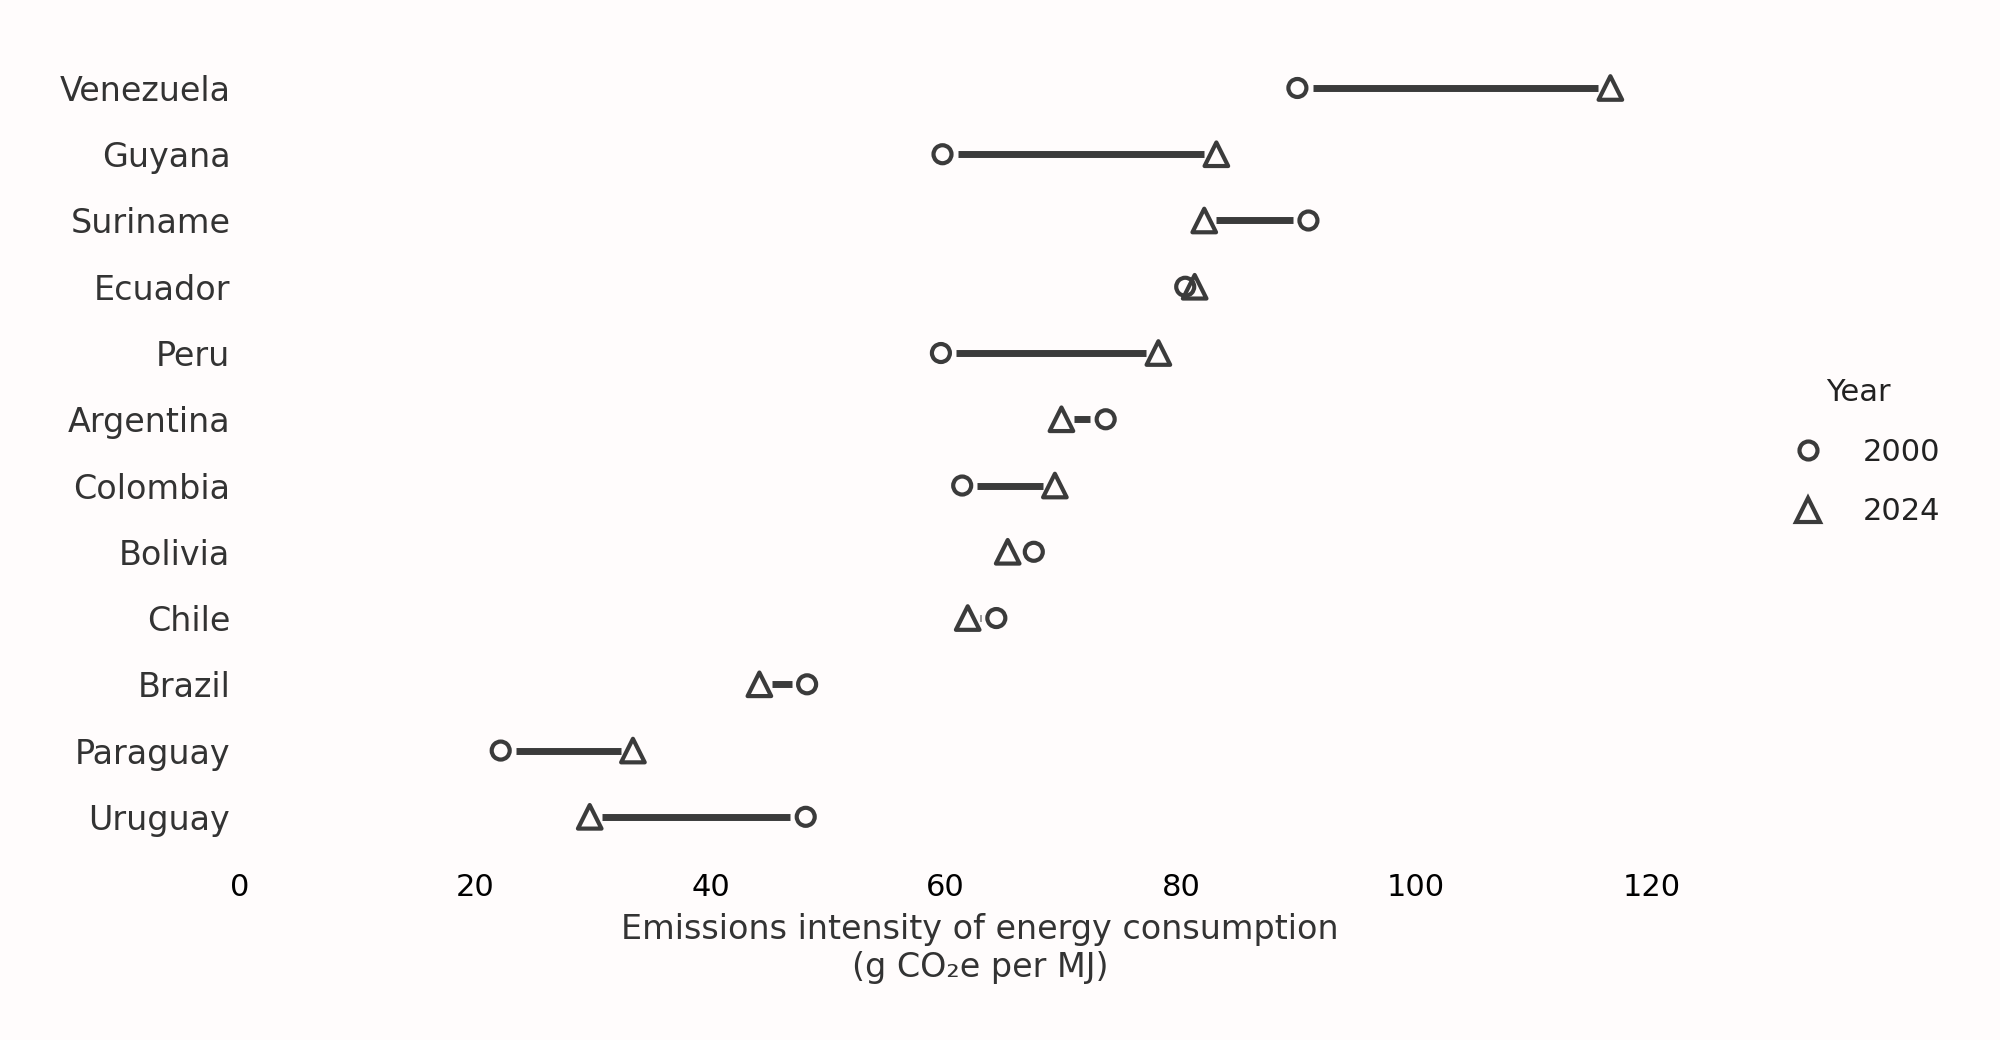
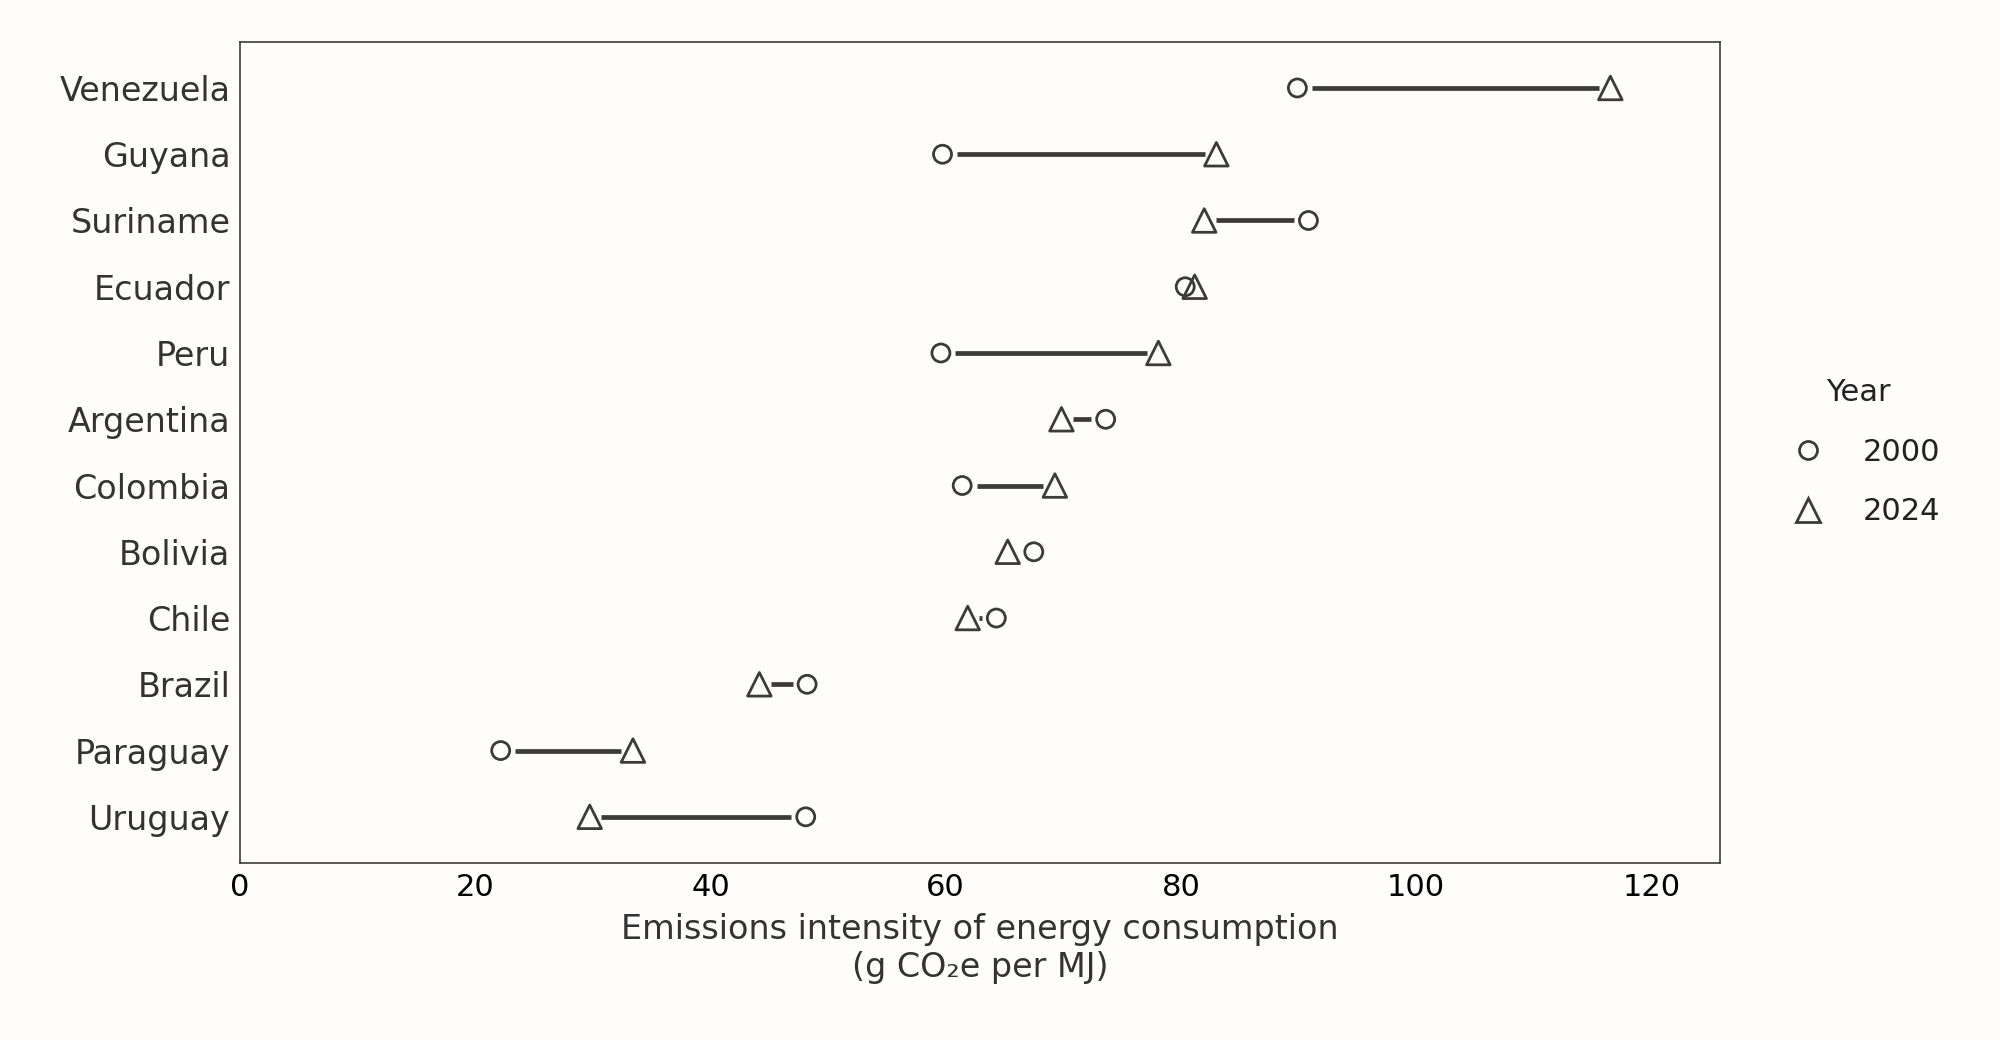
style(fig): add thin frame and thinner bar/marker outlines to CO2e intensity figure
Thin (0.6 pt) frame around the plotting area; marker outlines 1.5 -> 1.0 pt
and magnitude bar 2.5 -> 1.7 pt so the hierarchy is frame < markers < bar.

diff --git a/notebooks/09_fig_co2_intensity.py b/notebooks/09_fig_co2_intensity.py
@@ -42,7 +42,8 @@ FS_YTICK, FS_XTICK, FS_LABEL, FS_LEGEND = 12, 11, 12, 11
 # still shows inside it when both years are almost equal)
 M0, M1 = "o", "^"
 S0, S1 = 42, 72           # scatter areas (pt^2)
-LW_MARK = 1.5
+LW_MARK = 1.0            # marker outline (frame is 0.6)
+LW_BAR = 1.7             # magnitude bar
 GAP_PT = 1.5               # gap between bar end and marker outline
 
 
@@ -119,7 +120,7 @@ def make_figure(tbl, outfile):
         if abs(x1 - x0) * pt_per_unit <= r0 + r1:
             continue                                   # markers touch: no bar
         ax.plot([x0 + sign * r0 / pt_per_unit, x1 - sign * r1 / pt_per_unit],
-                [y, y], color=GREY, lw=2.5, solid_capstyle="butt", zorder=2)
+                [y, y], color=GREY, lw=LW_BAR, solid_capstyle="butt", zorder=2)
     ax.scatter(a, ypos, s=S0, marker=M0, facecolors="none", edgecolors=GREY,
                linewidths=LW_MARK, zorder=3)          # Y0
     ax.scatter(b, ypos, s=S1, marker=M1, facecolors="none", edgecolors=GREY,
@@ -130,8 +131,10 @@ def make_figure(tbl, outfile):
     ax.set_xlabel(f"Emissions intensity of energy consumption\n(g {CO2E} per MJ)",
                   fontsize=FS_LABEL, color="#333333")
     ax.grid(False)
-    for sp in ax.spines.values():
-        sp.set_visible(False)
+    for sp in ax.spines.values():          # thin frame around the plotting area
+        sp.set_visible(True)
+        sp.set_linewidth(0.6)
+        sp.set_color(GREY)
     ax.tick_params(length=0)
     ax.tick_params(axis="x", labelsize=FS_XTICK)
 
